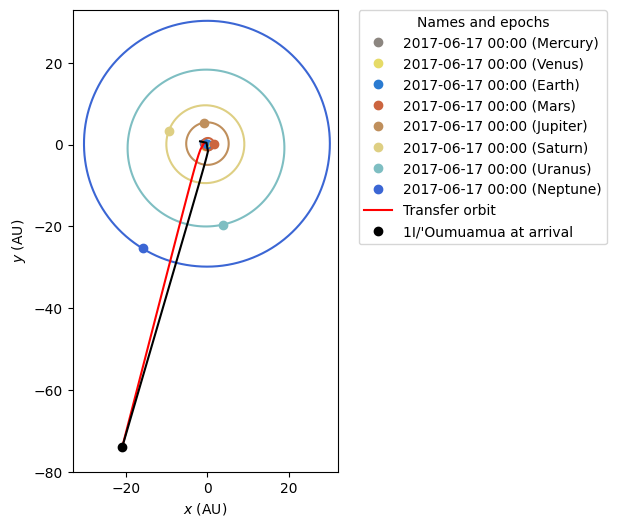
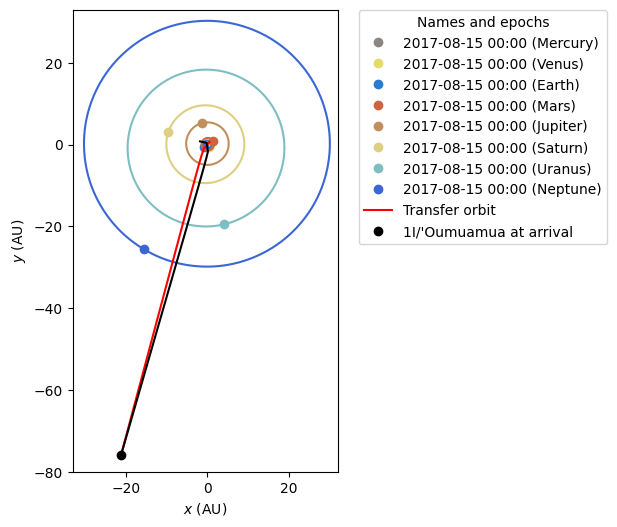
feat: optimum section

diff --git a/src/03_direct/optimum_transfer.tex b/src/03_direct/optimum_transfer.tex
@@ -25,7 +25,7 @@ contained in the set of prograde orbits. Analyzing figure
 \ref{fig:oumuamua-direct-prograde-transfer-porkchop} reveals that the lowest
 characteristic energy is the one collected in table \ref{tab:oumua-direct-transfer-optimum}.
 
-\vspace{1cm}
+\vspace{0.5cm}
 \begin{table}[H]
   \centering
   \begin{tabular}{|c|c|c|c|}
@@ -49,15 +49,31 @@ characteristic energy is the one collected in table \ref{tab:oumua-direct-transf
 \end{figure}
 
 Figure \ref{fig:oumuamua-direct-transfer-orbit} shows the trajectory of the
-optimum transfer between Earth and 1I/'Oumuamua.
+optimum transfer between Earth and 1I/'Oumuamua. Impulses for this maneuver are
+described in table \ref{tab:oumuamua-direct-transfer-impulses}. Total cost is
+$42.00$ km/s.
+
+\begin{table}[H]
+  \centering
+  \begin{tabular}{|c|c|c|c|}
+    \hline
+    Impulse & $\Delta v_x$ [km/s] & $\Delta v_y$ [km/s] & $\Delta v_z$ [km/s] \\
+    \hline
+    Launch & 28.20 & -30.10 & 3.91 \\
+    \hline
+    Arrival & 0.28 & -0.49 & -0.02 \\
+    \hline
+  \end{tabular}
+  \caption{Impulses required for the optimum transfer between Earth and 1I/'Oumuamua.}
+  \label{tab:oumuamua-direct-transfer-impulses}
+\end{table}
 
 This scenario was analyzed by \cite{hein2018} too. However, the analysis
 presented in this work expands previous article by covering the retrograde case
 and providing the optimum solution.
 
 Despite having found and optimum solution, the value of $C_3 = 720.28$
-km$^2$/s$^2$ is still high. This characteristic energy at launch is equivalent
-to an heliocentric velocity of $v_{\infty, 1} = 26.83$ km/s.
+km$^2$/s$^2$ is still a high for orbit transfers.
 
 \section{Borisov}
 

diff --git a/bin/oumuamua_direct_transfer_opt.py b/bin/oumuamua_direct_transfer_opt.py
@@ -13,13 +13,13 @@ from matplotlib import pyplot as plt
 
 
 # Compute ephemeris
-epochs = time_range("2017-06-17", end="2032-01-01", scale="tdb", num_values=75)
+epochs = time_range("2017-06-17", end="2032-05-13", scale="tdb", num_values=75)
 earth_ephem = Ephem.from_body(Earth, epochs=epochs)
 oumuamua_ephem = Ephem.from_horizons("'Oumuamua", epochs)
 
 # Declare launch and arrival dates
-launch_date = Time("2017-06-17", scale="tdb")
-arrival_date = Time("2032-01-01", scale="tdb")
+launch_date = Time("2017-08-15", scale="tdb")
+arrival_date = Time("2032-05-13", scale="tdb")
 
 # Compute Earth and 2I/Borisov orbits at launch and arrival
 earth_at_launch = Orbit.from_ephem(Sun, earth_ephem, epoch=launch_date)
@@ -41,4 +41,4 @@ plotter.plot_ephem(oumuamua_ephem, epoch=arrival_date, label="1I/'Oumuamua at ar
 plotter.backend.ax.set_xlim(-33, 32)
 plotter.backend.ax.set_ylim(-80, 33)
 plt.savefig("fig/static/oumuamua/direct-optimum-transfer.png", bbox_inches="tight")
-plt.show()
+#plt.show()
